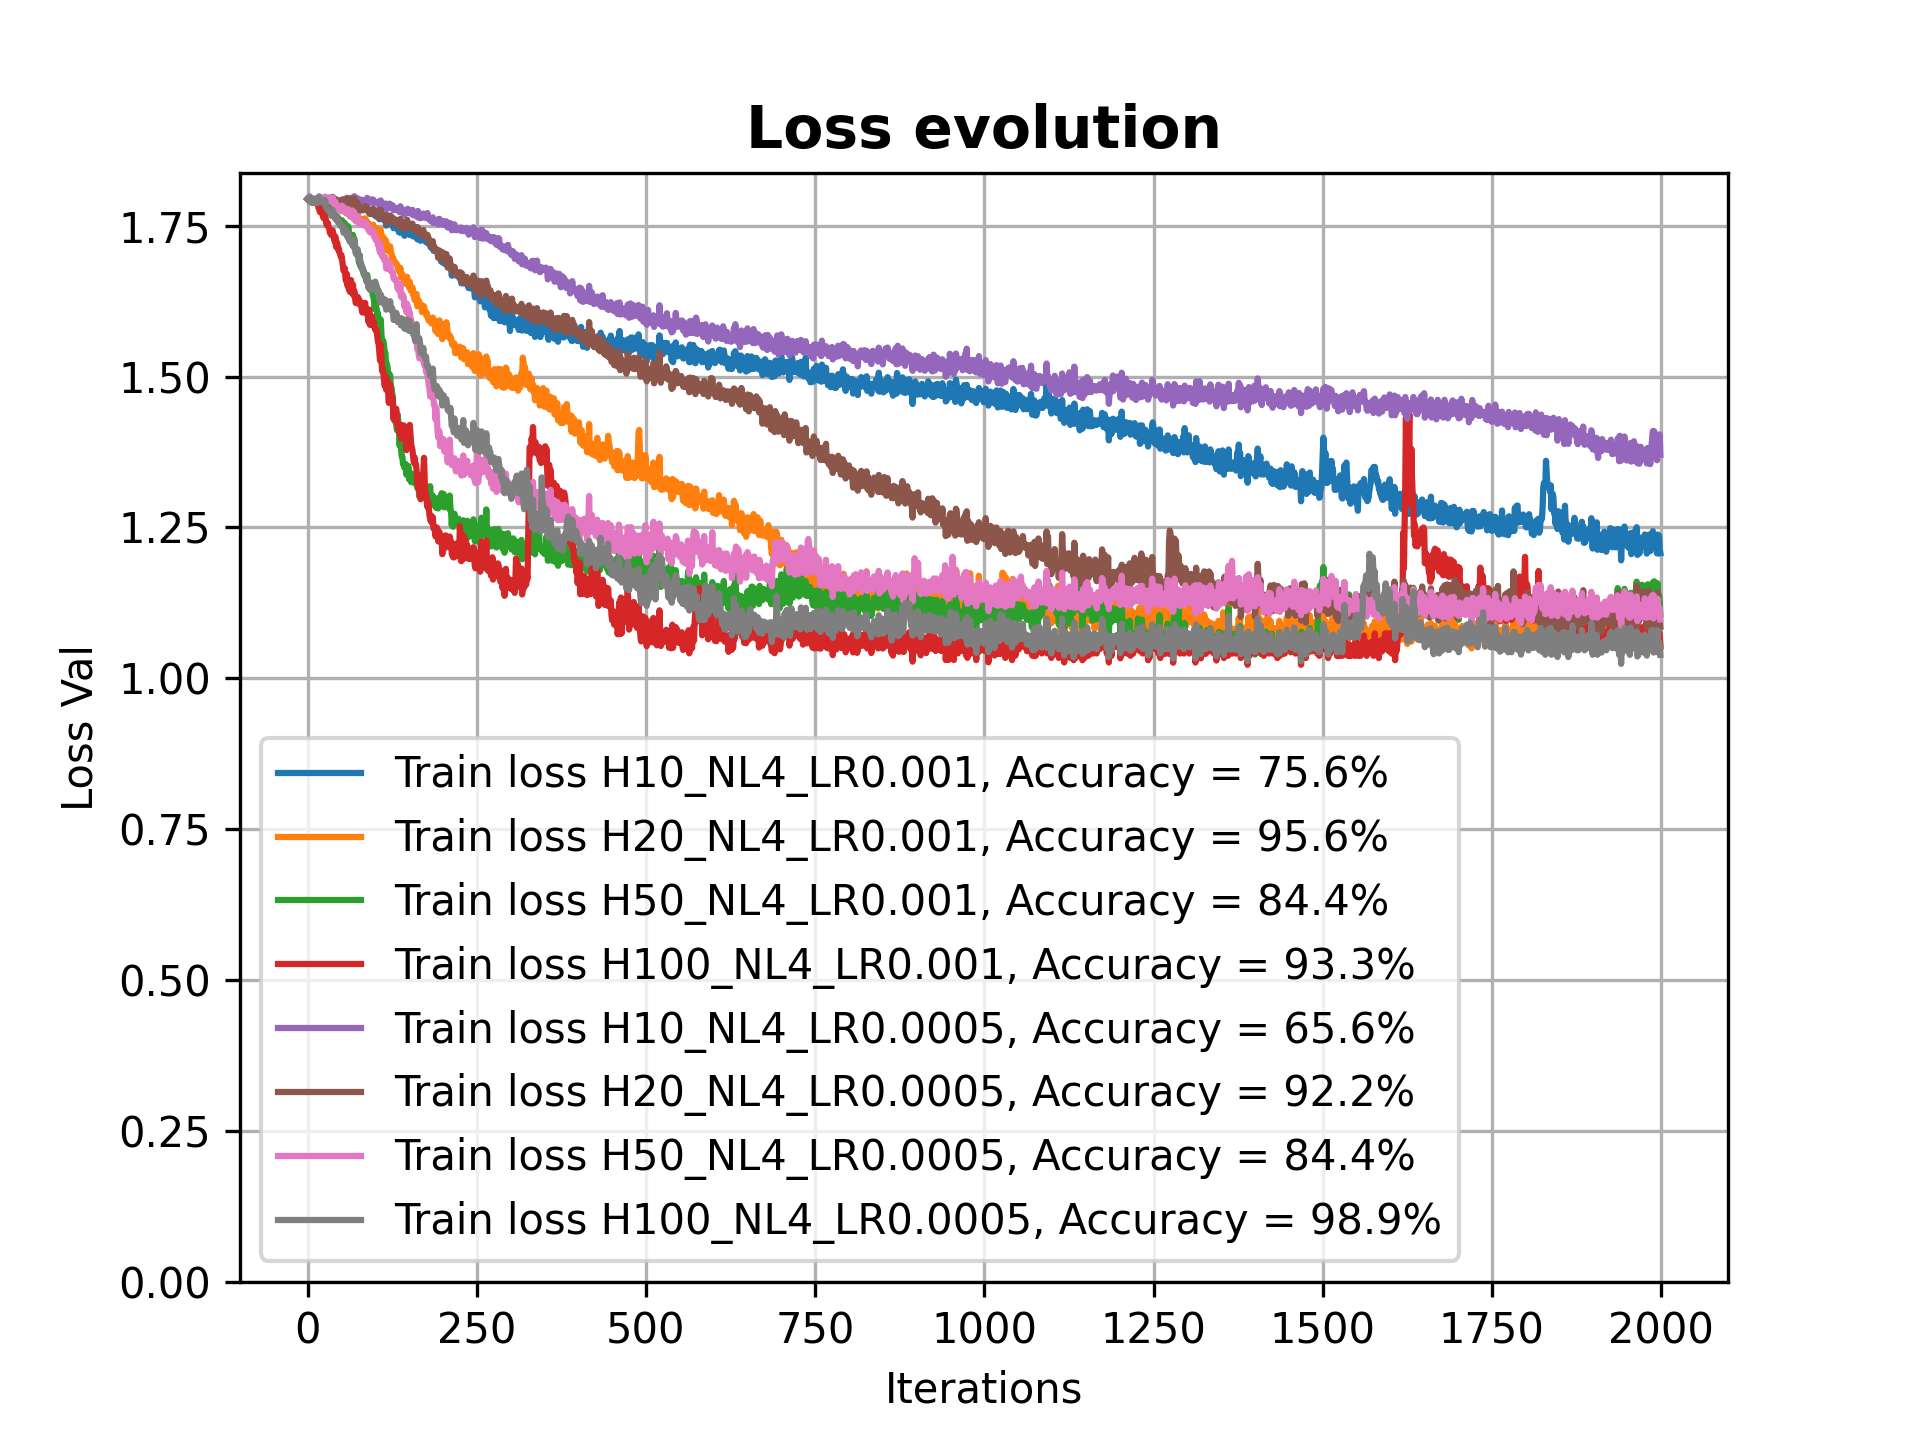
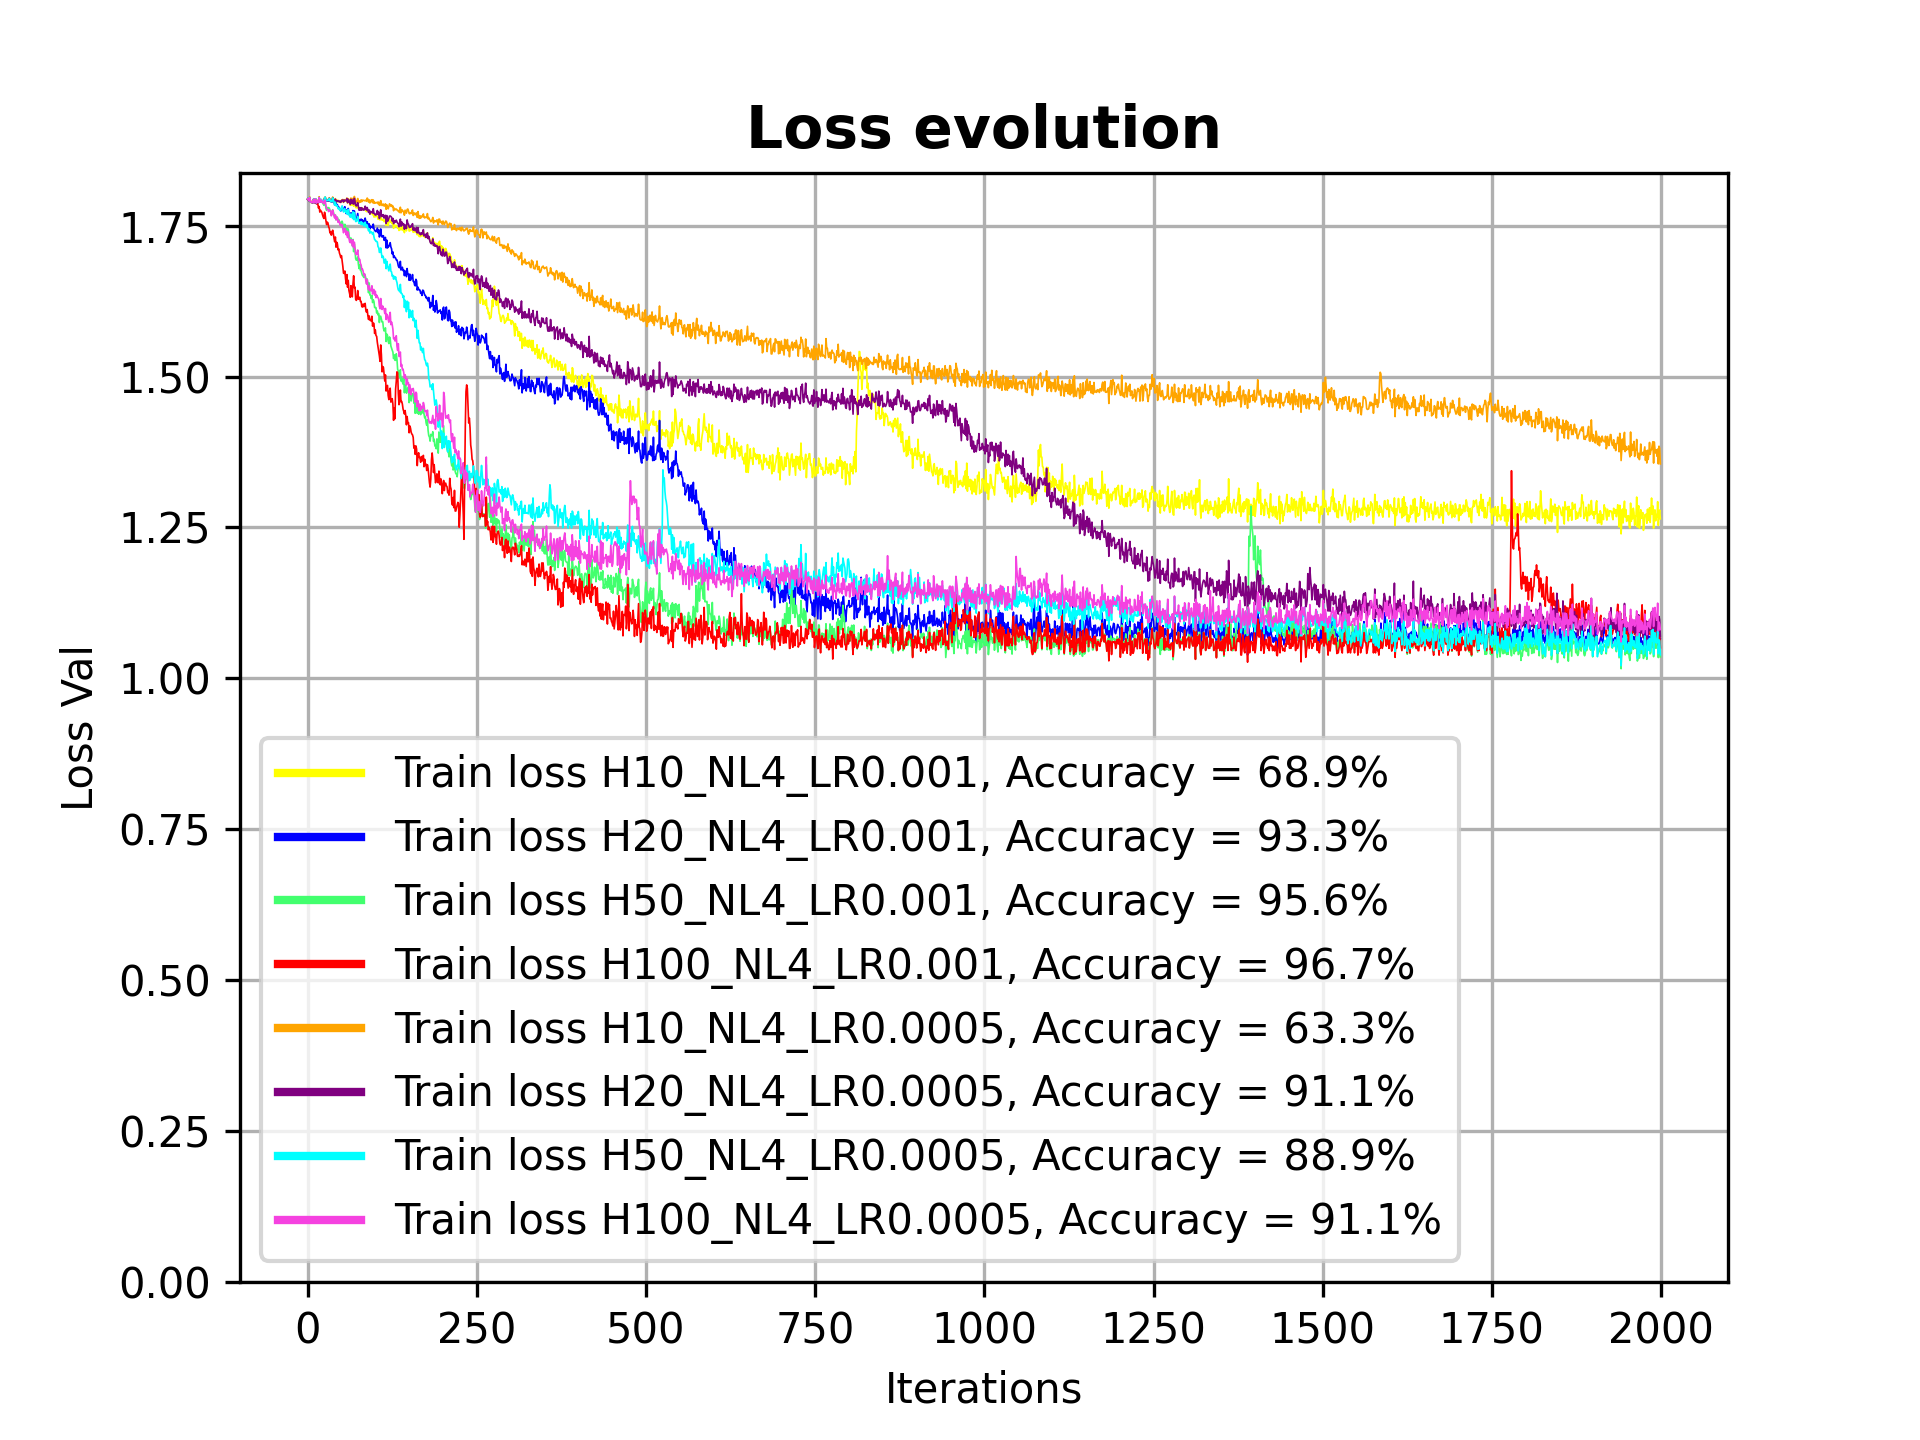
some figuers and explanations added to the report

diff --git a/P2/report.md b/P2/report.md
@@ -8,27 +8,27 @@ Andreu Garcies (240618), Alejandro Fernández (242349), Marc Aguilar (242192)
 
 # Exercise 1
 
-## Train a RNN or LSTM to solve the multi-class sequence classification problem.
+## Training an RNN or LSTM.
 
 ### How have we adapted the classification loss and the SequenceClassifier module
+
 In order to use the `SequenceClassifier` to solve our problem we modified the last linear layer and the activation function. 
 
 First of all, after analyzing the shape of the data and the goal of our network we realized that in the last layer we needed at least as many neurons as classes we wanted to distinguish. Therefore, we added the parameter `n_classes` to both the class and the layer (`nn.Linear(hidden_size, n_classes)`). 
 
-After the first modification and taking into account that we are solving a multiclass classification problem, the activation function which fitted the best was a **Softmax**, which directly returns probability that the sequence belongs to each of the classes. 
+After the first modification and taking into account that we were solving a multiclass classification problem, the activation function which fitted the best was a **Softmax**, which directly returns probability that the sequence belongs to each of the classes. 
 
-### How have we adapted the test_sequence_classifier function to compute the multi-class accuracy
+### How have we adapted the test function to compute the multi-class accuracy
 
-For the confusion matrix we have decided to use the `sklearn.metrics`, in particular the `confusion_matrix` and `ConfusionMatrixDisplay` modules. We use the first module to compute the values of the confusion matrix and the second one to plot the results. We have not modified the `test_sequence_classifier` function in any other meaningful way. One minor detail to remark is that any operation related to confusion matrices cannot be performed in the GPU.
+For the confusion matrix we decided to use the `sklearn.metrics`, in particular the `confusion_matrix` and `ConfusionMatrixDisplay` modules. We used the first module to compute the values of the confusion matrix and the second one to plot the results. We have not modified the `test_sequence_classifier` function in any other meaningful way. One minor detail to remark is that any operation related to confusion matrices cannot be performed in the GPU. Therefore, given that the training process is done in the GPU, we need to move the corresponding data to the CPU prior to the confusion matrix computation. The different confusion matrices will be rpesented when analysing the results of the performance of the model.
 
+## Experimenting with different hyper-parameters.
 
-## Experiment with different models by changing different hyper-parameters (e.g, num_layers, hidden_size, optimiziers, activation_functions for RNNs, etc..) and evaluate the results for each of them on the testing set.
-
-In order to search for the best performance possible we have tried multiple hyperparameter combinations, as well as some other alternatives like using bidirectional LSTMs and weight decay. Here we detail our exploration of several parameters and the results found:
+In order to search for the best performance possible we tried multiple hyperparameter combinations, as well as some other alternatives like using bidirectional LSTMs and weight decay. Here we detail our exploration of several parameters and the results found:
 
 - **Bias**: Using a bias parameter in the model consistently hurts performance, so it was rapidly discarded as a good option.
 
-- **LSTM vs normal RNN**: Using LSTM instead of normal RNN is almost non-negotiable. During the hyperparameter exploration phase it has provided much better results in a consistent manner. So, after some time, we stopped trying normal RNNs.
+- **LSTM vs normal RNN**: Using LSTM instead of normal RNN is almost non-negotiable. During the hyperparameter exploration phase it provided much better results in a consistent manner. So, after some time, we stopped trying normal RNNs.
 
 - **Optimizer used**: For this model we tried multiple optimizers from those available in `pytorch` (in fact, we tried all of them). Although we did not spend time fine-tuning each of the optimizers, we saw that the one that gave us the best immediate was `Adam`, so we continued with it.
 
@@ -52,7 +52,12 @@ The following image shows the loss evolution for the models with all the differe
 
 <img src="Results/fig2.png" style="zoom:30%"></img>
 
-From the plot we can summarize what we have presented in this section: the best results correspond to the model with `4` hidden layers, of `100` neurons each and $\alpha$ = `0.005`.
+From all the hyperparamters that we have previously explained that yield to the best results, we can see how the model with `4` hidden layers, of `50` neurons each and $\alpha$ = `0.001` is the one that generates better results. On the contrary, the model that produces the worst classification results is the one with `4` hidden layers of `10` neurons each and $\alpha$ = `0.0005`. The confusion matrices for both models are
+
+<img src="Results/fig6.png"></img>
+
+>**NOTE:** this report does not include all the confusion matrices for all the models that we have tested. The rest can be found on the notebook
+
 
 
 # Exercise 2
@@ -63,7 +68,11 @@ In order to discover the **keyword** we designed a very simple algorithm which c
 
 ## Analyze the new dataset & Define the new alphabet
 
-We can observe that the distribution of both **train and test** plaintexts is similar. This is what we expected since none of them are corrupted, and they are both in English so they should follow a similar distribution. On the other hand, in the test cyphertext dataset we can observe how a **new character** arises ("-"), and is the most frequent one. The train cyphertext character distribution has no anomalies. 
+We can observe that the distribution of both **train and test** plaintexts is similar.
+
+<img src="Results/fig3.png" style="zoom:22%"></img>
+
+This is what we expected since none of them are corrupted, and they are both in English so they should follow a similar distribution. On the other hand, in the test cyphertext dataset we can observe how a **new character** arises ("-"), and is the most frequent one. The train cyphertext character distribution has no anomalies. This will cause some problems that will be addressed afterwards. 
 
 The construction of the new alphabet was quite straightforward since we just had to add the new character ("-") to the abecedary.  
 
@@ -71,13 +80,15 @@ The construction of the new alphabet was quite straightforward since we just had
 
 The first time that we executed the model, we obtained the following results
 
-<span style="color:red">**TO BE COMPLETED**</span>
+<img src="Results/fig8.png" style="zoom:30%"></img>
 
-Even though it may seem like the model is performing significantly well (with an accuracy of $\approx 88\%$) we need to take the following into account: *$12.5\%$ of the sentences of the testing dataset have been corrupted*. This means that the model is facing some data that it has not seen during the training step, thus, it is very likely that it does not know how to handle it. Indeed, if we separate the accuracy in corrupted characters vs non-corrupted characters that the model has a very poor performance when it comes to predict the plaintext character of a corrupted character `-`.
+Even though it may seem like the model is performing significantly well (with an accuracy of $\approx 88\%$) we need to take the following into account: *$12.5\%$ of the sentences of the testing dataset have been corrupted*. This means that the model is facing some data that it has not seen during the training step, thus, it is very likely that it does not know how to handle it. Indeed, if we separate the accuracy in corrupted characters vs non-corrupted characters that the model has a very poor performance when it comes to predict the plaintext character of a corrupted character `-` (only $\approx7\%$ at maximum). Moreover, note how the model manages to achieve a reasonable performance with the training dataset, but it gets worse as unseen data comes into play.
 
-<span style="color:red">**INSERT IMAGE WITH THE DEFAULT RESULTS**</span>
+<img src="Results/fig7.png" style="zoom:30%"></img>
 
-As we can see, the model has a considerable margin of improvement. In this section, we will explain the different strategies that we implemented to overcome this problem of missclassifying corrupted characters and we are going to see how much of an impact they had in the overall performance of the model. 
+
+
+As we can see, the model has a considerable margin of improvement. In this section, we will explain the different strategies that we implemented to overcome this problem of missclassifying corrupted characters. 
 
 ### Data augmentation
 
@@ -106,4 +117,34 @@ In order to implement it we just set the flag `bidirectional_lstm` to `True` and
 
 ### Dropout
 
-Given the good results obtained in the first exercise, we have decided to also implement dropout for this case. Once again, it appears to have very beneficial effects.
+Given the good results obtained in the first exercise, we decided to also implement dropout for this case. Once again, it appears to have very beneficial effects.
+
+## Final results
+
+The goal of this section is to show the final specification of the model that we have used and its performance, considering all the different aspects that we have explained in the previous section.
+
+The following table shows the characteristics of the model
+
+| Parameter                | Value                       |
+| ------------------------ | --------------------------- |
+| Embedding size           | $24$                        |
+| Number of hidden neurons | $80$                        |
+| Number of layers         | $4$                         |
+| LSTM                     | $\text{True}$               |
+| Dropout                  | $0.05$                      |
+| Bidirectional LSTM       | $\text{True}$               |
+| Loss function            | $\text{Cross Entropy Loss}$ |
+| Optimizer                | $\text{Adam}$               |
+
+After $2500$ training iterations, the model manages an overall accuracy of $92.5\%$, correctly classifying the $99.86\%$ of the non-corrupted sentences and $40.45\%$ of the corrupted ones. The accuracy evolution can be seen in this graph
+
+<img src="Results/fig5.png" style="zoom:30%"></img>
+
+We would like to remark that due to performance issues, we have only separately computed the accuracy for the corrupted and non-corrupted sentences every 50 iterations.
+
+
+
+
+
+
+
